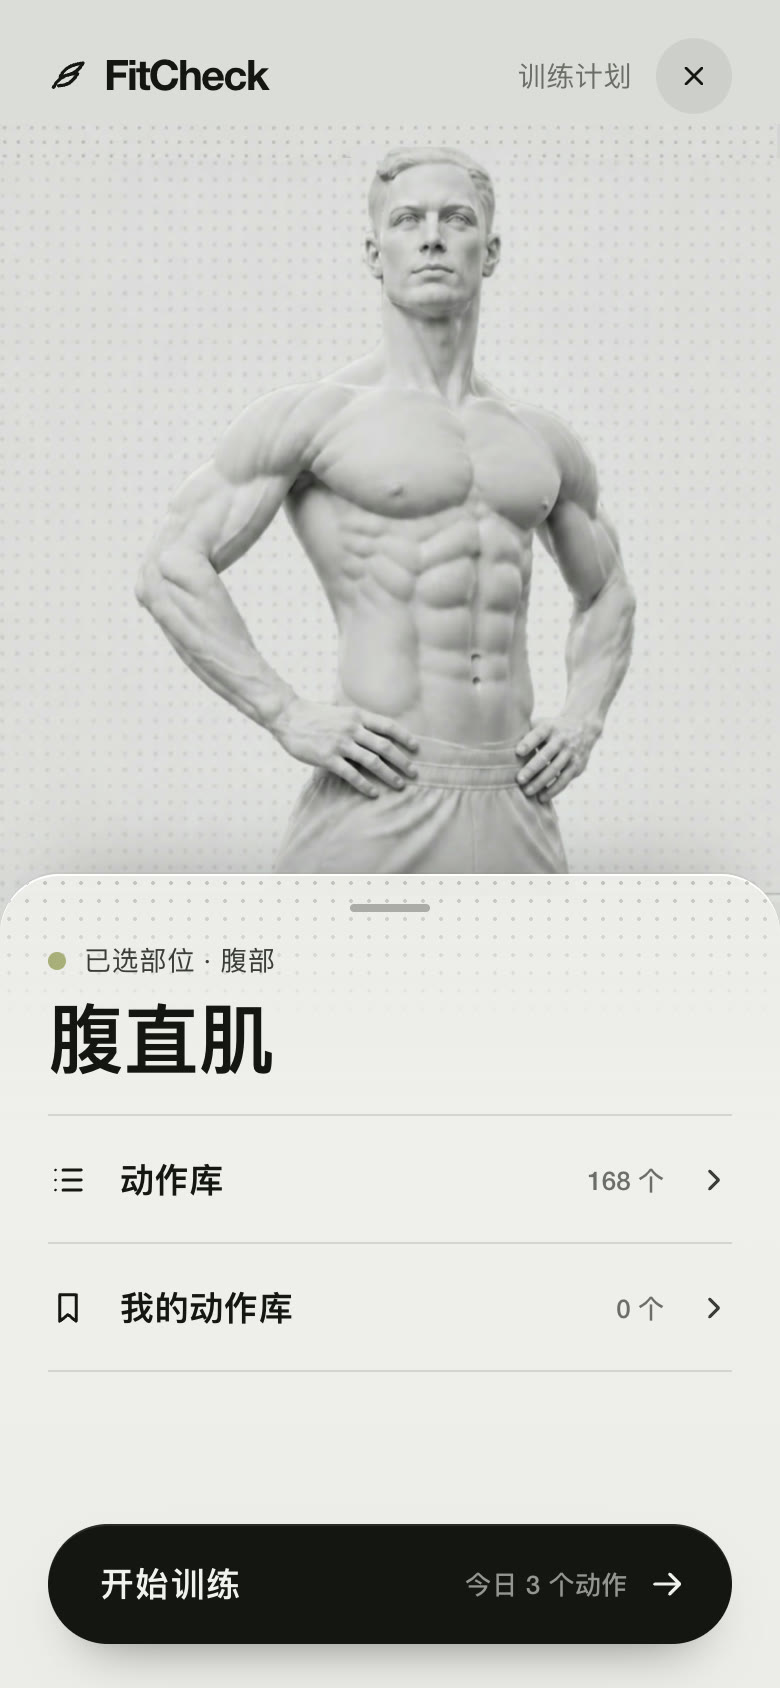
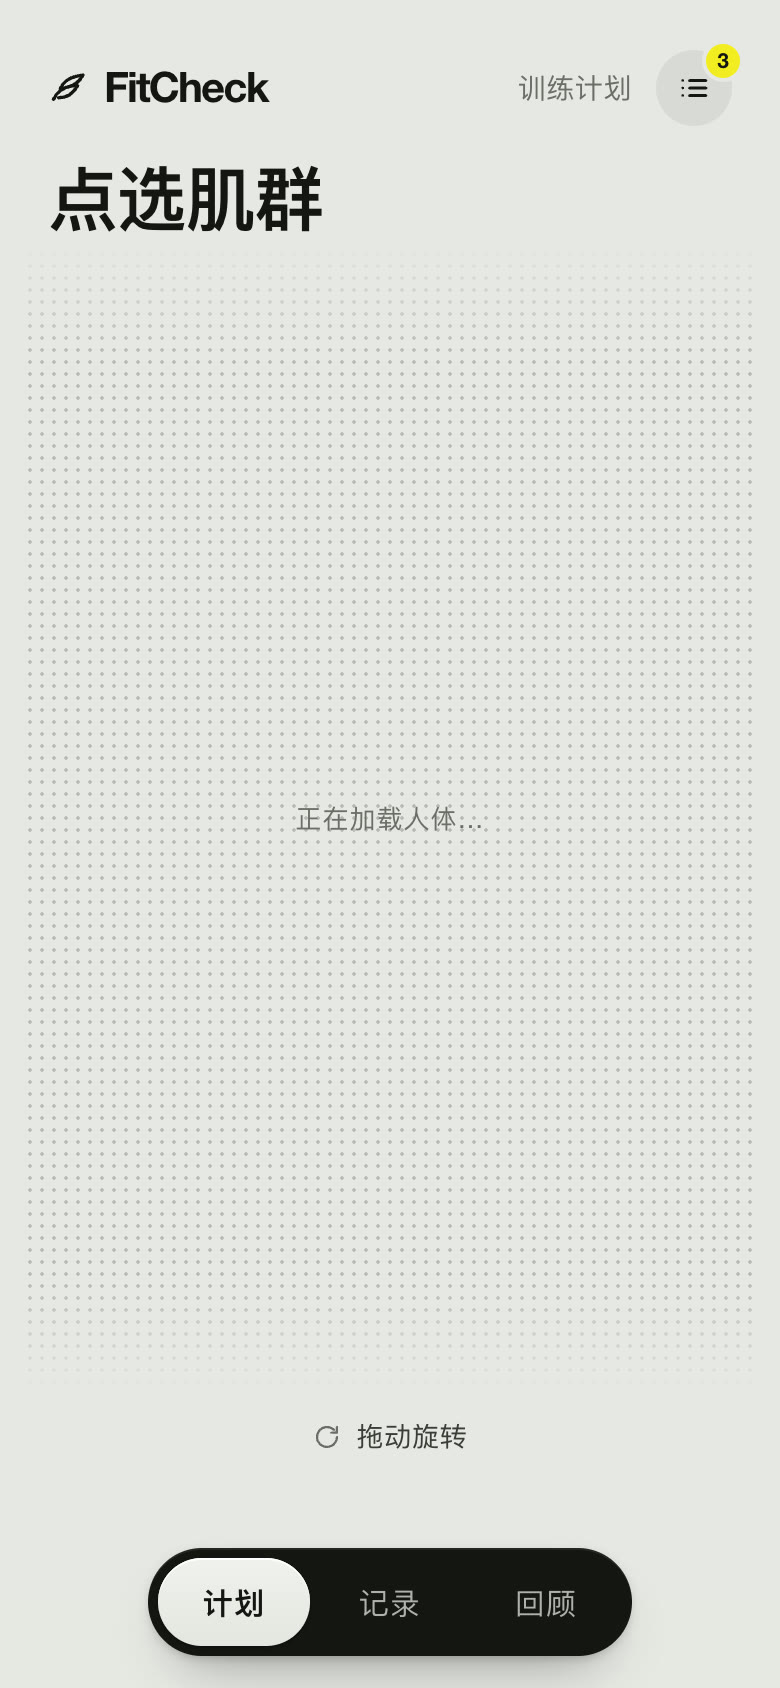
计划详情抽屉改为毛玻璃，支持下拉关闭
- 雾银抽屉半透明，上沿透出点阵与石膏人物，顶边加高光
- 点阵铺满整屏，人物底部渐隐
- 抽屉可跟手下拉，超过距离或速度即关闭，人物随之轻微下沉放大
- 补充对照截图

diff --git a/app/visual.css b/app/visual.css
@@ -252,35 +252,53 @@
   --fig-w: min(100vw, 560px);
   --fig-h: calc(var(--fig-w) * 548 / 550);
   --head-h: 62px;
+  --drag: 0px;
   position: fixed;
   inset: 0;
   z-index: 45;
   max-width: 560px;
   margin: 0 auto;
-  display: flex;
-  flex-direction: column;
   overflow: hidden;
   background: var(--silver-3);
   animation: detail-in .36s ease both;
 }
 .plan-detail[data-closing] { animation: detail-out .3s ease both; }
+
+/* 点阵铺满整屏，抽屉是毛玻璃，下面看得见点阵和人物 */
+.plan-detail-dots {
+  position: absolute;
+  inset: var(--head-h) 0 0;
+  background-image: radial-gradient(circle at center, rgb(160 162 156 / 70%) 0 .85px, transparent 1.15px);
+  background-size: 7px 7px;
+  pointer-events: none;
+}
 .plan-detail-head {
-  position: relative;
-  z-index: 2;
-  flex: none;
+  position: absolute;
+  inset: 0 0 auto;
+  z-index: 3;
   height: var(--head-h);
   display: flex;
   align-items: center;
   justify-content: space-between;
   padding: 14px 24px 0;
+  background: var(--silver-3);
 }
 .plan-detail-figure {
-  flex: none;
-  position: relative;
+  position: absolute;
+  top: var(--head-h);
+  left: 0;
+  right: 0;
   height: var(--fig-h);
   margin: 0;
   overflow: hidden;
+  transform: translateY(calc(var(--drag) * .32)) scale(calc(1 + var(--drag) / 2600));
+  transform-origin: 50% 30%;
+  transition: transform .5s var(--ease-out);
+  -webkit-mask-image: linear-gradient(#000 82%, transparent);
+  mask-image: linear-gradient(#000 82%, transparent);
 }
+.plan-detail[data-dragging] .plan-detail-figure,
+.plan-detail[data-dragging] .plan-drawer { transition: none; }
 .plan-detail-figure img {
   display: block;
   width: 100%;
@@ -293,33 +311,55 @@
 }
 .plan-detail[data-closing] .plan-detail-figure img { animation: figure-out .3s ease both; }
 
-/* 雾银抽屉：上沿透出点阵 */
+/* 雾银毛玻璃抽屉：上沿透出点阵与人物，高光压在最上沿 */
 .plan-drawer {
-  position: relative;
-  flex: 1;
-  min-height: 336px;
-  margin-top: min(-14px, calc(100dvh - var(--head-h) - var(--fig-h) - 336px));
+  position: absolute;
+  left: 0;
+  right: 0;
+  bottom: 0;
+  z-index: 2;
+  height: max(352px, calc(100dvh - var(--head-h) - var(--fig-h) + 96px));
   display: flex;
   flex-direction: column;
   padding: 12px 24px calc(22px + env(safe-area-inset-bottom));
   border-radius: 30px 30px 0 0;
-  background: linear-gradient(180deg, rgb(236 236 233 / 96%) 0, #efefed 34%, #ececea 100%);
+  background:
+    linear-gradient(180deg, rgb(255 255 255 / 46%) 0, rgb(244 244 241 / 34%) 18%, rgb(238 238 235 / 62%) 46%, rgb(236 236 233 / 84%) 100%);
+  -webkit-backdrop-filter: blur(26px) saturate(1.35) brightness(1.04);
+  backdrop-filter: blur(26px) saturate(1.35) brightness(1.04);
   box-shadow:
-    inset 0 1px 0 rgb(255 255 255 / 95%),
-    0 -1px 0 rgb(21 22 19 / 4%),
-    0 -22px 44px -26px rgb(21 22 19 / 30%);
-  animation: drawer-in .62s var(--ease-out) .04s both;
+    inset 0 1px 0 rgb(255 255 255 / 92%),
+    inset 0 0 0 .5px rgb(255 255 255 / 55%),
+    0 -1px 0 rgb(21 22 19 / 5%),
+    0 -24px 48px -28px rgb(21 22 19 / 34%);
+  transform: translateY(var(--drag));
+  transition: transform .5s var(--ease-spring);
+  touch-action: none;
+  user-select: none;
+  -webkit-user-select: none;
+  animation: drawer-in .62s var(--ease-out) .04s backwards;
+}
+@supports not ((backdrop-filter: blur(1px)) or (-webkit-backdrop-filter: blur(1px))) {
+  .plan-drawer { background: linear-gradient(180deg, #ececea, #efefed 34%, #ececea); }
 }
 .plan-drawer::before {
   content: '';
   position: absolute;
   inset: 0 0 auto;
-  height: 76px;
+  height: 84px;
   border-radius: 30px 30px 0 0;
-  background-image: radial-gradient(circle at center, rgb(150 152 146 / 50%) 0 .8px, transparent 1.1px);
+  background-image: radial-gradient(circle at center, rgb(130 132 126 / 55%) 0 .8px, transparent 1.1px);
   background-size: 9px 9px;
   -webkit-mask-image: linear-gradient(#000, transparent);
   mask-image: linear-gradient(#000, transparent);
+  pointer-events: none;
+}
+.plan-drawer::after {
+  content: '';
+  position: absolute;
+  inset: 0 18px auto;
+  height: 1px;
+  background: linear-gradient(90deg, transparent, rgb(255 255 255 / 95%) 30%, rgb(255 255 255 / 95%) 70%, transparent);
   pointer-events: none;
 }
 .plan-detail[data-closing] .plan-drawer { animation: drawer-out .3s ease both; }

diff --git a/components/fc/PlanDetail.tsx b/components/fc/PlanDetail.tsx
@@ -1,6 +1,6 @@
 'use client';
 
-import { useEffect, useState } from 'react';
+import { useEffect, useRef, useState, type CSSProperties, type PointerEvent } from 'react';
 import { useRouter } from 'next/navigation';
 import JournalIcon from '@/components/JournalIcon';
 import type { MuscleId } from '@/lib/muscles';
@@ -28,6 +28,34 @@ export default function PlanDetail({ muscle, muscleLabel, region, pose, planCoun
   const [counts, setCounts] = useState<{ all?: number; liked?: number }>({});
   const [starting, setStarting] = useState(false);
   const [error, setError] = useState('');
+  // 下拉抽屉关闭：跟手位移，人物同时轻微下沉放大，松手按距离或速度决定关闭还是回弹
+  const [drag, setDrag] = useState<{ dy: number; live: boolean }>({ dy: 0, live: false });
+  const dragStart = useRef<{ y: number; t: number; id: number } | null>(null);
+  const moved = useRef(false);
+
+  function onDragStart(event: PointerEvent<HTMLElement>) {
+    if ((event.target as HTMLElement).closest('.plan-drawer-rows, .plan-start')) return;
+    dragStart.current = { y: event.clientY, t: performance.now(), id: event.pointerId };
+    moved.current = false;
+    event.currentTarget.setPointerCapture(event.pointerId);
+    setDrag({ dy: 0, live: true });
+  }
+  function onDragMove(event: PointerEvent<HTMLElement>) {
+    const start = dragStart.current;
+    if (!start || start.id !== event.pointerId) return;
+    const raw = event.clientY - start.y;
+    if (Math.abs(raw) > 4) moved.current = true;
+    setDrag({ dy: raw > 0 ? raw : raw * .22, live: true });
+  }
+  function onDragEnd(event: PointerEvent<HTMLElement>) {
+    const start = dragStart.current;
+    if (!start || start.id !== event.pointerId) return;
+    dragStart.current = null;
+    const dy = event.clientY - start.y;
+    const speed = dy / Math.max(1, performance.now() - start.t);
+    if (dy > 120 || (dy > 40 && speed > .7)) { onClose(); setDrag({ dy, live: false }); }
+    else setDrag({ dy: 0, live: false });
+  }
 
   useEffect(() => {
     const request = new AbortController();
@@ -71,7 +99,10 @@ export default function PlanDetail({ muscle, muscleLabel, region, pose, planCoun
   const startMeta = activeSession ? '继续上一节' : planCount ? `今日 ${planCount} 个动作` : '先挑动作';
 
   return (
-    <div className="plan-detail" data-closing={closing || undefined} role="dialog" aria-modal="true" aria-label={`${region} · ${muscleLabel}`}>
+    <div className="plan-detail" data-closing={closing || undefined} data-dragging={drag.live || undefined}
+      style={{ '--drag': `${drag.dy.toFixed(1)}px` } as CSSProperties}
+      role="dialog" aria-modal="true" aria-label={`${region} · ${muscleLabel}`}>
+      <div className="plan-detail-dots" aria-hidden="true" />
       <header className="plan-detail-head">
         <div className="journal-brand"><JournalIcon name="brand" />FitCheck</div>
         <div className="journal-head-actions">
@@ -87,8 +118,9 @@ export default function PlanDetail({ muscle, muscleLabel, region, pose, planCoun
         <img src={`/plan-poses/${pose}.jpg`} alt={`${region}展示姿势`} draggable={false} />
       </figure>
 
-      <section className="plan-drawer">
-        <button type="button" className="plan-drawer-grab" onClick={onClose} aria-label="收起" />
+      <section className="plan-drawer" onPointerDown={onDragStart} onPointerMove={onDragMove}
+        onPointerUp={onDragEnd} onPointerCancel={onDragEnd}>
+        <button type="button" className="plan-drawer-grab" onClick={() => { if (!moved.current) onClose(); }} aria-label="收起" />
         <p className="plan-kicker"><i aria-hidden="true" />已选部位 · {region}</p>
         <h2 className="plan-drawer-title">{muscleLabel}</h2>
         <div className="plan-drawer-rows">

diff --git a/docs/design/2026-11-21/visual-handoff.md b/docs/design/2026-11-21/visual-handoff.md
@@ -74,7 +74,7 @@ tone = max(0, (252 - 原图 R 通道) / 128)
 | 悬浮胶囊导航 | 已实施。[JournalNav](../../../components/JournalNav.tsx) 只留文字，底部有一层与页面同色的渐隐。 |
 | 计划首屏点阵 | 已实施。[SculptureBody](../../../components/fc/SculptureBody.tsx) 的 `look="halftone"` 在 GPU 上做两遍：中性灰雕塑渲染进纹理，再按 3 CSS px 的格子采样亮度画圆点，算法与上文原稿一致。只绕竖轴转，禁止缩放。背景点阵由 CSS 画，固定在屏幕上。回顾页仍用默认的 `look="sculpture"`。 |
 | 柠檬黄锚点 | 已实施。点到哪里就落在命中的表面点上，存成模型坐标，转身时跟着走，法线背向镜头时隐藏。未点选时提示在胸部。 |
-| 点选后的姿势详情 | 已实施。[PlanDetail](../../../components/fc/PlanDetail.tsx)：点阵人体以锚点为中心推近淡出，石膏姿势图由模糊放大落定，雾银抽屉从下方弹出。手机返回手势可关闭。肌群到姿势的对应在 [plan-poses.ts](../../../lib/plan-poses.ts)，图片在 [public/plan-poses](../../../public/plan-poses/)，由 [plan-poses](plan-poses/) 的成稿裁出人物区。 |
+| 点选后的姿势详情 | 已实施。[PlanDetail](../../../components/fc/PlanDetail.tsx)：点阵人体以锚点为中心推近淡出，石膏姿势图由模糊放大落定，雾银抽屉从下方弹出。抽屉是半透明毛玻璃（`backdrop-filter`），上沿透出点阵和人物；可以下拉关闭，人物跟着轻微下沉放大。手机返回手势也可关闭。肌群到姿势的对应在 [plan-poses.ts](../../../lib/plan-poses.ts)，图片在 [public/plan-poses](../../../public/plan-poses/)，由 [plan-poses](plan-poses/) 的成稿裁出人物区。 |
 | 抽屉三个入口 | 「动作库」打开该肌群的多选动作抽屉，「我的动作库」只列常练动作（`preference=liked`），完成后统一写入今日计划。「开始训练」有进行中的训练就继续，有计划就新开一节，没有计划就先打开动作库。 |
 | 加练选动作 | `/train/extra` 暂用旧的 [BodyPicker](../../../components/fc/BodyPicker.tsx)，训练阶段重做。 |
 | 触感 | Android 用 `navigator.vibrate`；iOS Safari 网页没有振动接口，靠锚点落点、勾选回弹等视觉反馈代替。 |
